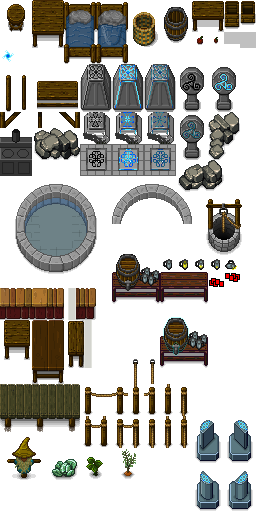
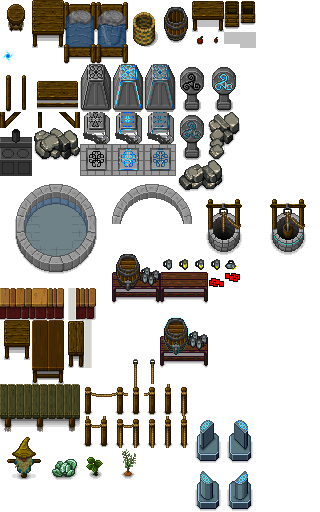
wip: garden puzzle, added lamppost rune, updated well to include sparked state

diff --git a/js/sparkAssets.js b/js/sparkAssets.js
@@ -483,12 +483,21 @@ class SparkAssets {
                 Templates.xsprite("stoneWall.1",        2, 8, { width: 16*3, height: 16*2 }),
                 Templates.xsprite("stoneWall.2",        13, 7, { width: 16*2, height: 16*3 }),
                 Templates.xsprite("stoneWall.3",        11, 10, { width: 16*3, height: 16*2 }),
-                Templates.xsprite("well",               12, 12, { width: 16*4, height: 16*4 }),
-                Templates.xsprite("bouncer.se",          12, 26, { width: 16*2, height: 16*3 }),
-                Templates.xsprite("bouncer.sw",          14, 26, { width: 16*2, height: 16*3 }),
-                Templates.xsprite("bouncer.ne",          12, 29, { width: 16*2, height: 16*3 }),
-                Templates.xsprite("bouncer.nw",          14, 29, { width: 16*2, height: 16*3 }),
+                Templates.xsprite("well.idle",          12, 12, { width: 16*4, height: 16*4 }),
+                Templates.xsprite("well.sparked",       16, 12, { width: 16*4, height: 16*4 }),
+                Templates.xsprite("bouncer.se",         12, 26, { width: 16*2, height: 16*3 }),
+                Templates.xsprite("bouncer.sw",         14, 26, { width: 16*2, height: 16*3 }),
+                Templates.xsprite("bouncer.ne",         12, 29, { width: 16*2, height: 16*3 }),
+                Templates.xsprite("bouncer.nw",         14, 29, { width: 16*2, height: 16*3 }),
             ]},
+
+            { tag: "well", 
+                cls: "Animator", 
+                animations: { 
+                    [ModelState.idle]: { cls: "Media", tag: "well.idle" }, 
+                    [ModelState.sparked]: { cls: "Media", tag: "well.sparked" }, 
+                },
+            },
 
             { tag: "bouncer", 
                 cls: "Animator", 
@@ -543,7 +552,19 @@ class SparkAssets {
                 Templates.xsprite("vendorBench",        30, 0, {width: 16*2, height: 16*3}),
                 Templates.xsprite("appleBlueberryBench", 32, 0, {width: 16, height: 16*4}),
                 Templates.xsprite("postFishline",       33, 0, {width: 16*5, height: 16*4}),
+                Templates.xsprite("lamppost.relay.idle", 8, 6, {width: 32, height: 64}),
+                Templates.xsprite("lamppost.relay.powered", 10, 6, {width: 32, height: 64}),
+                Templates.xsprite("lamppost.relay.sparked", 12, 6, {width: 32, height: 64}),
             ]},
+
+            { tag: "lamppost.relay", 
+                cls: "Animator", 
+                animations: { 
+                    [ModelState.idle]: { cls: "Media", tag: "lamppost.relay.idle" }, 
+                    [ModelState.powered]: { cls: "Media", tag: "lamppost.relay.powered" }, 
+                    [ModelState.sparked]: { cls: "Media", tag: "lamppost.relay.sparked" }, 
+                },
+            },
 
             { src: "img/stuccoWalls1.png", loader: "Sheet", refs: [
                 {tag: "woodDoor.close", cls: "Sprite", width: 16*4, height: 16*5, x: 16*11, y: 16*0 },
@@ -1131,7 +1152,7 @@ class SparkAssets {
             Templates.tile("03c", "stoneWall.1",        {offx: 16, offy: -8, xcollider: {width: 44, height: 20, offy: 4}}),
             Templates.tile("03d", "stoneWall.2",        {offx: 8, offy: -16, xcollider: {width: 28, height: 36, offy: 4}}),
             Templates.tile("03e", "stoneWall.3",        {offx: 16, offy: -8, xcollider: {width: 44, height: 20, offy: 4}}),
-            Templates.tile("03f", "well",               {offx: 24, offy: -24, xcollider: {width: 24, height: 24, offy: 16}}), //12, 12, { width: 16*4, height: 16*4 }),
+            Templates.tile("03f", "well",               {offx: 24, offy: -24, xcollider: {width: 24, height: 24, offy: 16}, sparkable: true}),
 
             // ------------------------------------------------------------------------------
 
@@ -1255,6 +1276,7 @@ class SparkAssets {
             Templates.object("o0f", "floorRelay", "SparkBase", { 
                 offx: 8, 
                 offy: -8, 
+                range: 16*8.5,
                 powered: false,
             }),
 
@@ -1374,6 +1396,12 @@ class SparkAssets {
             Templates.object("o0u", "bouncer", "Bouncer", { 
                 offx: 8, offy: -16, 
                 xcollider: {width:20, height: 20, offy: 8},
+            }),
+
+            Templates.object("o0v", "lamppost.relay", "SparkRelay", { 
+                offx: -8, offy: -24, 
+                range: 4.2*16,
+                xcollider: { width: 10, height: 10, offy: 24, offx: 8},
             }),
 
             // @@@ ------------------------------------------------------------------------------

diff --git a/js/worldGen.js b/js/worldGen.js
@@ -771,8 +771,8 @@ class WorldGen {
                 ],
                 fg: [
                     "0000","0000","0000","0000","0000","0000","0000","0000","0000","0000","0000","0000","0000","0000","0000","0000",
-                    "0000","0000","0000","0000","0000","0000","0000","0000","0000","0000","0000","0000","0000","0000","0000","0000",
                     "0000","0000","0000","0000","0000","0000","0000","0000","0000","0000","0o0u","0000","0000","0000","0000","0000",
+                    "0000","0000","0000","0000","0000","0000","0000","0000","0000","0000","0000","0000","0000","0000","0000","0000",
                     "0000","0000","0000","0000","0000","0000","0000","0000","0000","0000","0000","0000","0000","0000","0000","0000",
                     "0000","0000","0000","0000","0000","0000","0000","0000","0000","0000","0000","0000","0000","0000","0000","0000",
                     "0000","0000","0000","0000","0000","0000","0000","0000","0000","0000","0000","0000","0000","0000","0000","0000",
@@ -838,10 +838,10 @@ class WorldGen {
                 ],
                 fg: [
                     "0000","0000","0000","0000","0000","0000","0000","0000","0000","0000","0000","0000","0X4j","0X4j","0X1k","0000",
+                    "003f","0000","0000","000E","0000","0000","0000","0000","0000","0000","0000","0000","0000","0000","0000","0000",
                     "0000","0000","0000","0000","0000","0000","0000","0000","0000","0000","0000","0000","0000","0000","0000","0000",
-                    "003f","0000","0000","0000","0000","0000","0000","0000","0000","0000","0000","0000","0000","0000","0000","0000",
-                    "0000","0000","0000","0000","0000","0000","0000","0000","0000","0000","0000","0000","0000","0000","0000","0000",
-                    "0000","0000","0000","0000","0000","0000","0000","0000","0000","0000","0000","0000","0000","0000","0000","0000",
+                    "0000","000T","0000","0000","0000","0000","0000","0000","0000","0000","0000","0000","0000","0000","0000","0000",
+                    "0000","0000","0000","0000","0o0v","0000","0000","0000","0000","0000","0000","0000","0000","0000","0000","0000",
                     "0000","0000","0000","0000","0000","0000","0000","0000","0000","0000","0000","0000","0000","0000","0000","0000",
                     "0000","0000","0000","0000","0000","0000","0000","0000","0000","0000","0000","0000","0000","0000","0000","0000",
                     "0000","0000","0000","0000","0000","0000","0000","0000","0000","0000","0000","0000","0000","0000","0000","0000",

diff --git a/js/base/uxCtrl.js b/js/base/uxCtrl.js
@@ -29,7 +29,6 @@ class UxCtrl extends Gizmo {
 
     // METHODS -------------------------------------------------------------
     destroy() {
-        console.log("destroy ctrl");
         if (this.view) this.view.destroy();
         super.destroy();
     }

diff --git a/js/food.js b/js/food.js
@@ -5,7 +5,6 @@ import { Model }            from "./base/model.js";
 class Food extends Model {
     constructor(spec={}) {
         super(spec);
-        console.log(`food: ${this}`);
     }
 
 }
